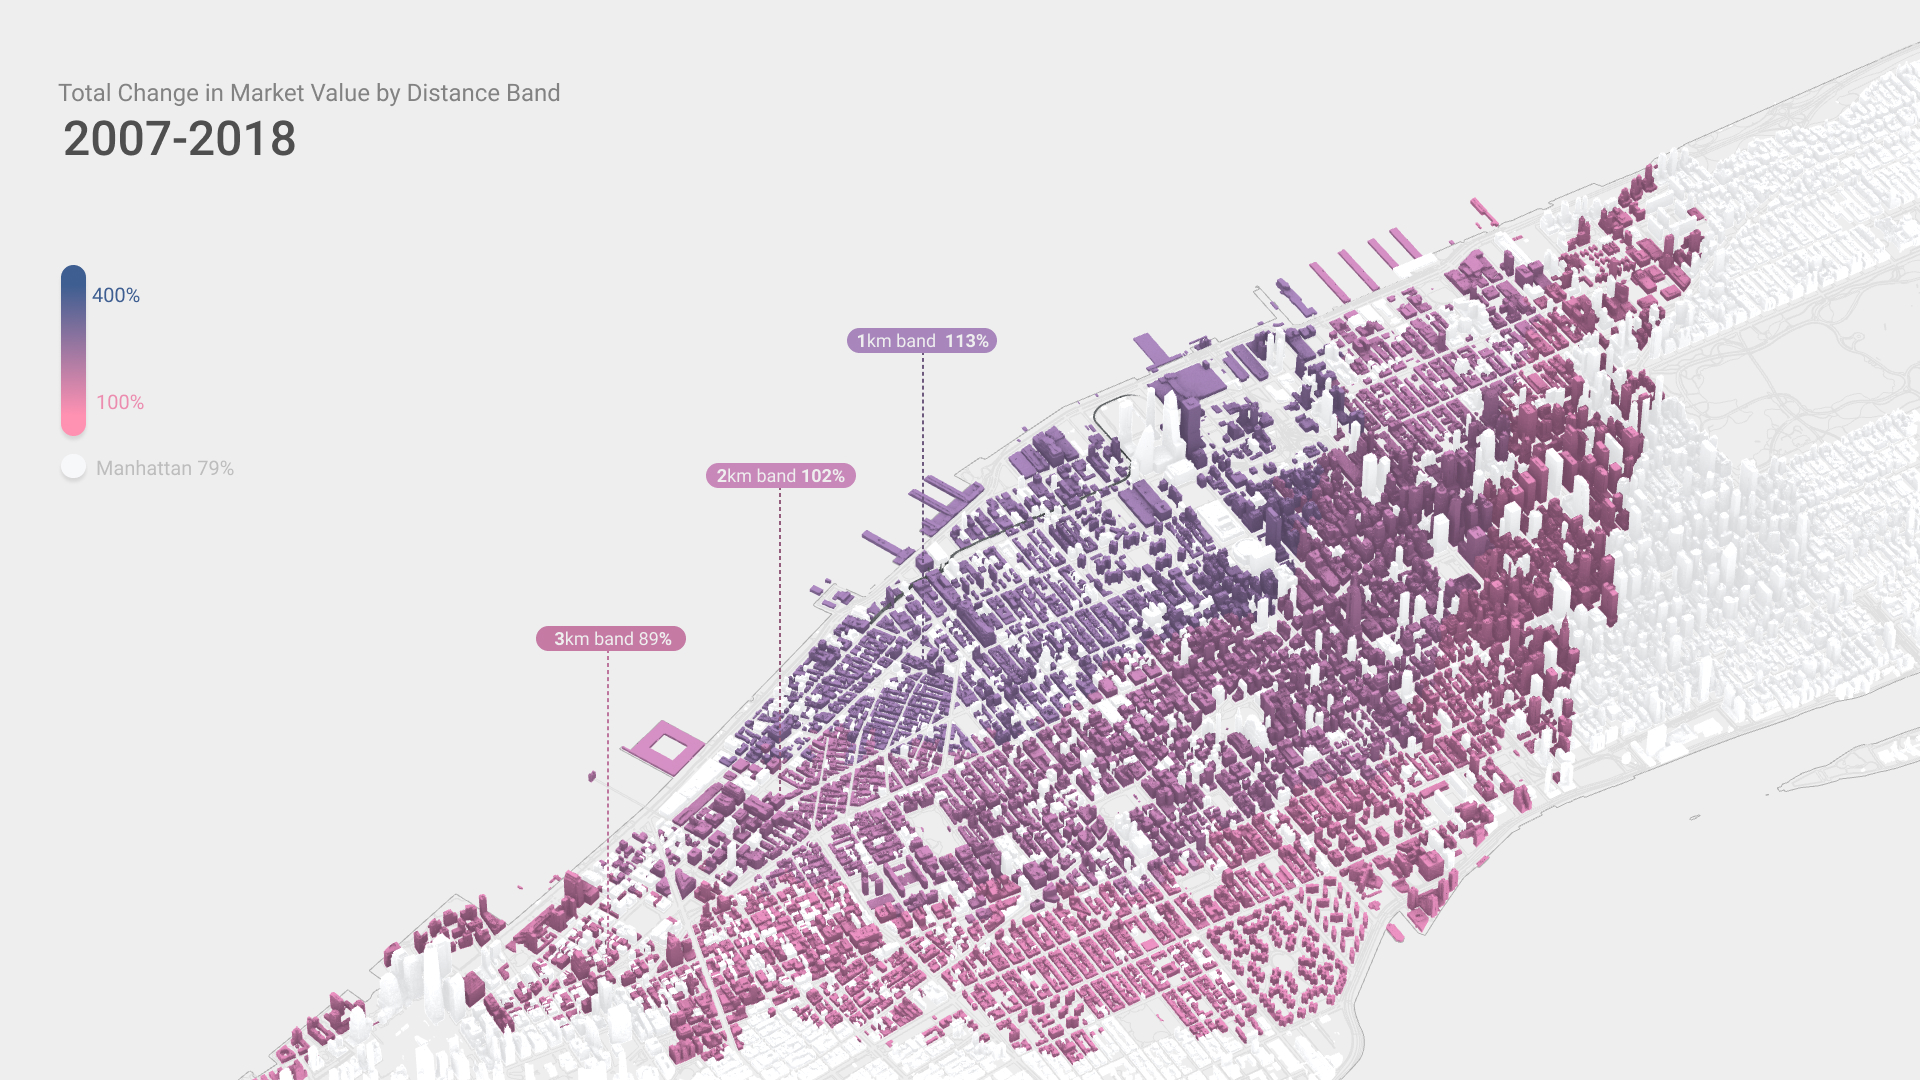
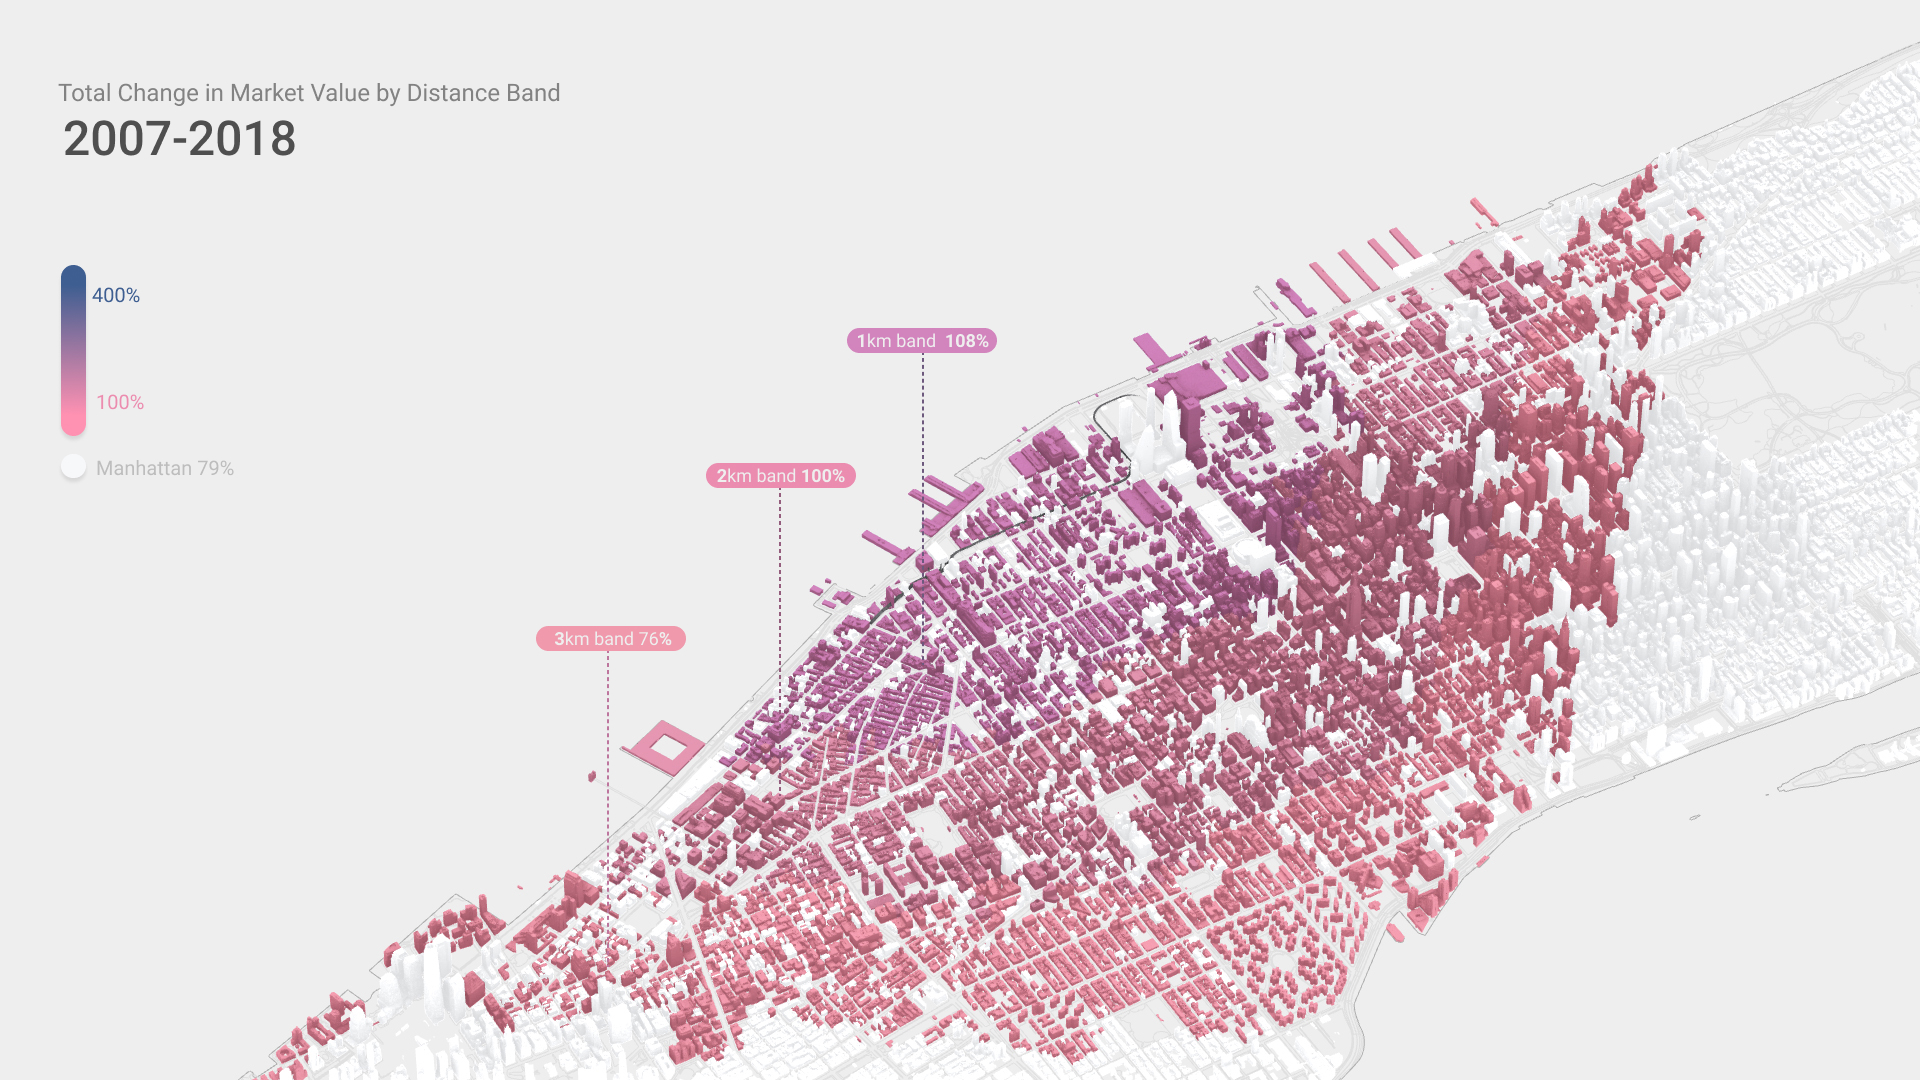
sql

diff --git a/methodology/readme.md b/methodology/readme.md
@@ -10,7 +10,7 @@ We analysed property prices in Manhattan, between 2007 and 2018 using  publicly 
 
 *We filtered properties that were sold over the period of time from 2007 to 2018 and compared their assessed value to their actual sales price, to make sure the datasets were well correlated.*
 
-### Dataset preparation:
+## Dataset preparation:
 
 For the purposes of this analysis we had to slightly modify the existing dataset.
 
@@ -42,11 +42,69 @@ GROUP BY
 
 Next, we calculated the coefficients of value change for each year. This is done by calculating the cumulative value of properties, within one synthetic parent lot, in a particular year and dividing it by the same value from the previous year.
 
-<!---
-```cs
-code placeholder
+```sql
+SELECT
+	*
+FROM
+	(
+SELECT
+	`years`.`block` AS `block`,
+	`years`.`lot` AS `lot`,
+	COALESCE ( sum( `years`.`07` ), 0 ) AS `2007`,
+	COALESCE ( sum( `years`.`08` ), 0 ) AS `2008`,
+	COALESCE ( sum( `years`.`09` ), 0 ) AS `2009`,
+	COALESCE ( sum( `years`.`10` ), 0 ) AS `2010`,
+	COALESCE ( sum( `years`.`11` ), 0 ) AS `2011`,
+	COALESCE ( sum( `years`.`12` ), 0 ) AS `2012`,
+	COALESCE ( sum( `years`.`13` ), 0 ) AS `2013`,
+	COALESCE ( sum( `years`.`14` ), 0 ) AS `2014`,
+	COALESCE ( sum( `years`.`15` ), 0 ) AS `2015`,
+	COALESCE ( sum( `years`.`16` ), 0 ) AS `2016`,
+	COALESCE ( sum( `years`.`17` ), 0 ) AS `2017`,
+	COALESCE ( sum( `years`.`18` ), 0 ) AS `2018` 
+FROM
+	(
+SELECT
+	`property assessments filtered`.`apblock` AS `block`,
+	`property assessments filtered`.`aplot` AS `lot`,
+	`property assessments filtered`.`cur_fv_t` AS `cur_fv_t`,
+	`property assessments filtered`.`year` AS `year`,
+	( CASE WHEN ( `property assessments filtered`.`year` = 2007 ) THEN `property assessments filtered`.`cur_fv_t` END ) AS `07`,
+	( CASE WHEN ( `property assessments filtered`.`year` = 2008 ) THEN `property assessments filtered`.`cur_fv_t` END ) AS `08`,
+	( CASE WHEN ( `property assessments filtered`.`year` = 2009 ) THEN `property assessments filtered`.`cur_fv_t` END ) AS `09`,
+	( CASE WHEN ( `property assessments filtered`.`year` = 2010 ) THEN `property assessments filtered`.`cur_fv_t` END ) AS `10`,
+	( CASE WHEN ( `property assessments filtered`.`year` = 2011 ) THEN `property assessments filtered`.`cur_fv_t` END ) AS `11`,
+	( CASE WHEN ( `property assessments filtered`.`year` = 2012 ) THEN `property assessments filtered`.`cur_fv_t` END ) AS `12`,
+	( CASE WHEN ( `property assessments filtered`.`year` = 2013 ) THEN `property assessments filtered`.`cur_fv_t` END ) AS `13`,
+	( CASE WHEN ( `property assessments filtered`.`year` = 2014 ) THEN `property assessments filtered`.`cur_fv_t` END ) AS `14`,
+	( CASE WHEN ( `property assessments filtered`.`year` = 2015 ) THEN `property assessments filtered`.`cur_fv_t` END ) AS `15`,
+	( CASE WHEN ( `property assessments filtered`.`year` = 2016 ) THEN `property assessments filtered`.`cur_fv_t` END ) AS `16`,
+	( CASE WHEN ( `property assessments filtered`.`year` = 2017 ) THEN `property assessments filtered`.`cur_fv_t` END ) AS `17`,
+	( CASE WHEN ( `property assessments filtered`.`year` = 2018 ) THEN `property assessments filtered`.`cur_fv_t` END ) AS `18` 
+FROM
+	`property assessments filtered` 
+	) `years` 
+GROUP BY
+	`years`.`block`,
+	`years`.`lot` 
+	) `select` 
+WHERE
+ COALESCE(((`select`.`2018` / `select`.`2007` ) - 1),1)  < 10 
 ```
---->
+
+| Block  | Lot | 2007 | 2008 | 2009 | 2010  | 2011  | 2012  | 2013  | 2014  | 2015  | 2016  | 2017  | 2018  |
+|-----|----|---------|---------|---------|----------|----------|----------|----------|----------|----------|----------|----------|----------|
+| 78  | 40 | 4500000 | 6760000 | 6080000 | 6140000  | 6158000  | 6212000  | 6260000  | 6070000  | 7076000  | 6015000  | 5999000  | 6309000  |
+| 97  | 17 | 4100000 | 4820000 | 4340000 | 4990000  | 5005000  | 5049000  | 4458600  | 4952000  | 5088000  | 5088000  | 6106000  | 6421000  |
+| 97  | 36 | 3800000 | 6365484 | 5730000 | 6590000  | 6610000  | 6668000  | 6719000  | 8063000  | 7401000  | 6291000  | 7549000  | 7939000  |
+| 97  | 44 | 3480000 | 2470000 | 2220000 | 2550000  | 2678000  | 2758000  | 2344000  | 2333000  | 1983000  | 2677000  | 3614000  | 4556000  |
+| 97  | 45 | 1770000 | 2230000 | 2010000 | 2310000  | 2317000  | 2387000  | 2029000  | 2020000  | 2424000  | 3272000  | 4417000  | 5741000  |
+| 97  | 55 | 1394000 | 5000000 | 4500000 | 4730000  | 7095000  | 8514000  | 7237000  | 7203000  | 8644000  | 11669000 | 15753000 | 15196000 |
+| 106 | 2  | 308000  | 339000  | 340000  | 1780000  | 4130000  | 4956000  | 9894225  | 9848000  | 8371000  | 11301000 | 15256000 | 12767000 |
+| 106 | 6  | 1790000 | 4900000 | 4410000 | 5070000  | 5085000  | 5129000  | 5168000  | 6202000  | 5272000  | 5177000  | 5501000  | 5901000  |
+| 132 | 26 | 2100000 | 2100000 | 3082000 | 3207000  | 3219000  | 3247000  | 3272000  | 3926000  | 4711000  | 5653000  | 6784000  | 7134000  |
+| 135 | 11 | 1231000 | 1420000 | 1711000 | 4750000  | 5523000  | 6628000  | 6679000  | 8015000  | 9104000  | 12290000 | 16592000 | 27681000 |
+| ... | ... | ... | ... | ... | ... | ... | ... | ... | ... | ... | ... | ... | ... |
 
 *We did not filter out new construction in this, but capped max value growth at 100000%*
 
@@ -58,32 +116,104 @@ We’ve used data from [NYC Street Centerline](https://data.cityofnewyork.us/Bus
 
 <p align="center"><img width="100%" src="img/distance.gif" /></p>
 
-1. 0-1 km
-2. 1-2 km
-3. 2-3 km
-4. the rest of New York City
+#### Distance to High Line
+
+| Block | Lot |Stage 1 - 2009 | Stage 2 - 2014  | Stage 3 - 2019  | Radius |
+|------|:---|:-----------|:------------|:------------|:--------|
+| 675  |  38 |    3261.91 | 742.15     | 405.71     | 93     |
+| 716  |  3  |     413.25 | 413.25     | 413.25     | 208    |
+| 715  |  63 |     413.25 | 413.25     | 413.25     | 189    |
+| 716  | 1   | 413.25     | 413.25     | 413.25     | 208    |
+| 716  | 2   | 413.25     | 413.25     | 413.25     | 208    |
+| 716  | 5   | 413.25     | 413.25     | 413.25     | 284    |
+| ...  | ...   | ...    | ...     | ...     | ...    |
+
+#### Number of lots per band
+
+| Band | Distance | Number of lots |
+|------|-------|----------------|
+| 1    |0-1 km |3130           |
+| 2    |1-2 km |5143           |
+| 3    |2-3 km |6091           |
+| 4    |the rest of New York City |41029          |
 
 ### Total market value change per band:
 
 Firstly we calculated the change in total market value of all properties within each band, between 2007 and 2018. Summing the values of synthetic plots within each band and tracking that value change over time. We can see how total market value of the band grew over the period. To calculate additional property tax revenue received by the government as a result of High Line, we calculated the difference between the total market value of nearby properties if they were to have grown at the Manhattan mean rate and compared this to their actual growth. We then calculated the additional property tax revenue generated by this extra uplift, taking into account the different tax classes, assessed values and deductions relevant to NYC property taxation. 
 
-<!---
-```cs
-code placeholder
+```sql
+SELECT
+	CASE
+			WHEN
+				`distance` BETWEEN 0 AND 1000 THEN
+				"1"
+			WHEN
+				`distance` BETWEEN 1000 AND 2000 THEN
+				"2"
+			WHEN
+				`distance` BETWEEN 2000 AND 3000 THEN
+				"3"
+			ELSE
+				"4"
+			END AS `band`,
+	COUNT(`lot`) AS `Number of Lots`,
+	SUM(`2007`) AS `Total Market Value 2007`,
+	SUM(`2018`) AS `Total Market Value 2018`,
+	SUM(`2018`)/SUM(`2007`)-1 AS `Total Value Uplift`
+FROM `cur_fv_t distance`
+GROUP BY `band`
 ```
---->
+
+
+| Band | Number of Lots |  2007 |  2018 | Value Uplift |
+|------|:--------------:|:------------------------|:-------------------------|---|
+| 1    |      3130      |             16676541094 |             34828934875 | 108% |
+| 2    |      5143      |             37275969508 |             74577136328 | 100% |
+| 3    |      6091      |             54172760793 |             95148666916 | 76% |
+
+```sql
+SELECT
+	COUNT(`lot`) AS `Number of Lots`,
+	SUM(`2007`) AS `Total Market Value 2007`,
+	SUM(`2018`) AS `Total Market Value 2018`,
+	SUM(`2018`)/SUM(`2007`)-1 AS `Value Uplift`
+FROM `cur_fv_t yearly`
+```
+| Number of Lots |  2007 |  2018 | Value Uplift |
+|:--------------:|:------------------------|:-------------------------|---|
+|      55393| 271237511685 | 486144719625 | 79% |
 
 <p align="center"><img width="100%" src="img/total_uplift.jpg" /></p>
 
 ### Average individual property value change by band:
 
-We then analysed individual properties and calculated the value uplift they each experienced over the period, taking a mean of these values within each band. This shows the average value uplift experienced by individual landowners rather than a measure of the total market uplift.
+We then analysed individual properties and calculated the value uplift they each experienced over the period, taking a mean of these values within each band. This shows the average value uplift experienced by individual landowners rather than a measure of the total market uplift. 
 
-<!---
-```cs
-code placeholder
+```sql
+SELECT
+	CASE
+			WHEN
+				`distance` BETWEEN 0 AND 1000 THEN
+				"1"
+			WHEN
+				`distance` BETWEEN 1000 AND 2000 THEN
+				"2"
+			WHEN
+				`distance` BETWEEN 2000 AND 3000 THEN
+				"3"
+			ELSE
+				"4"
+			END AS `band`,
+AVG(COALESCE((`2018`/`2007`-1),1)) as `Value Uplift`
+FROM `cur_fv_t distance`
+GROUP BY band
 ```
---->
+
+| Band | Average Value uplift |
+|-|-|
+|1|207%|
+|2|176%|
+|3|157%|
 
 <p align="center"><img width="100%" src="img/average_uplift.jpg" /></p>
 
